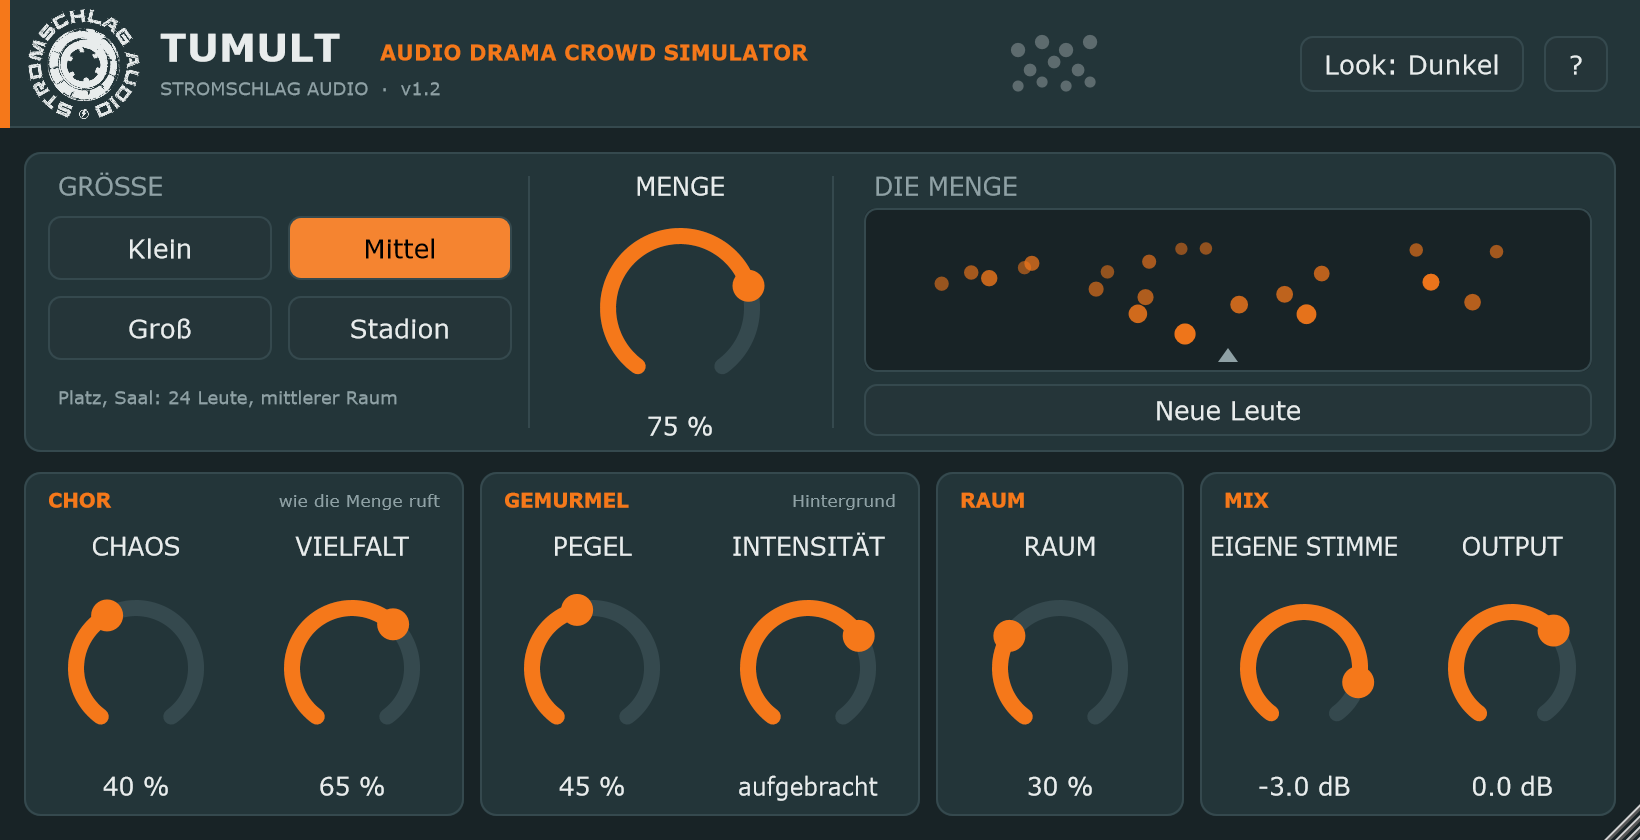
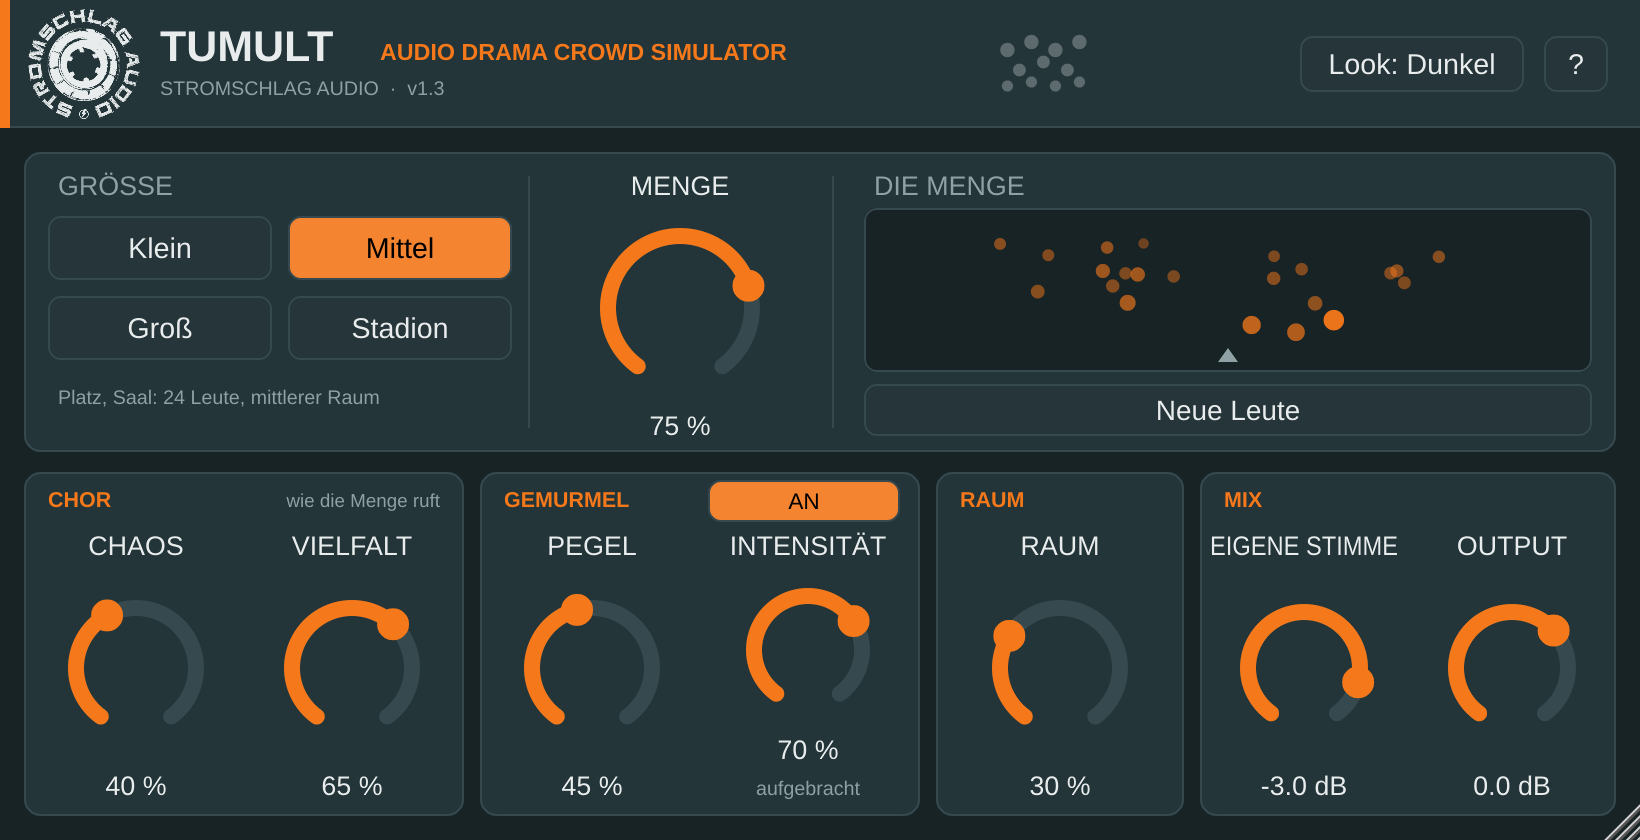
Finalize Tumult 1.3 screenshots, validation evidence and release notes

diff --git a/docs/VALIDATION-1.3.md b/docs/VALIDATION-1.3.md
@@ -1,32 +1,77 @@
-# Validierung 1.3
+# Validierung TUMULT 1.3
 
-## Umfang
+## Ergebnis und Grenzen
 
-Verbesserungen aus dem unabhängigen technischen Audit von 1.2. Alle Tests verwenden die reale Engine. Es wurden keine tatsächlichen Hörtests und keine Studio-One-Pro-8-Sitzung durchgeführt. Aussagen über Natürlichkeit sind deshalb keine bestätigten Hörergebnisse.
+Der endgültige Produktionscode wurde auf dem Arbeitszweig mit Commit `60f4518af202de913ed177fb077744bcc87f47b2` geprüft. Die abschließenden Ergänzungen betreffen Screenshots und Dokumentation.
 
-## Regressionen
+Es wurden keine tatsächlichen Hörtests und keine Studio-One-Pro-8-Sitzung durchgeführt. Natürlichkeit und Verständlichkeit in einer echten Hörspielmischung sind deshalb keine bestätigten Hörergebnisse. Der unabhängige Gemurmelbetrieb wurde mit stillen und deaktivierten Eingängen im echten JUCE-Prozessor getestet; Stop, Suspend und Export müssen in Studio One gesondert beurteilt werden.
+
+## Tatsächlich abgeschlossene Prüfungen
+
+| Prüfung | Ergebnis |
+|---|---|
+| Windows-x64-VST3-Build, Versions- und Herstellerprüfung | Erfolgreich |
+| Windows-DSP-Regressionen | Erfolgreich, 23,98 s |
+| Windows-Prozessorregressionen einschließlich Editor | Erfolgreich, 1,72 s |
+| Windows-pluginval, Strictness 8 | Vollständig beendet, Exitcode 0, abschließendes `SUCCESS`, keine Fehlerzeilen |
+| Linux-CI mit AddressSanitizer und UndefinedBehaviorSanitizer | Erfolgreich |
+| Lokaler vollständiger JUCE-/VST3-Build unter Linux | Erfolgreich |
+| Lokale Prozessorregressionen einschließlich fraktionaler Schalterwerte | Erfolgreich, 6,12 s |
+| Lokales pluginval unter Linux, Strictness 8, mit Xvfb | Vollständig beendet, Exitcode 0, abschließendes `SUCCESS` |
+| Lokaler Release-DSP-Build nach der Bypass-Ergänzung | Erfolgreich, 175,85 s in parallel ausgelasteter Cloud-Umgebung |
+| Echte JUCE-Oberflächenbilder, Dunkel und Hell | Neu erzeugt, Version 1.3, visuell geprüft; keine Bildretusche |
+
+Nachweise: [vollständiger Windows-Lauf](https://github.com/StromschlagProductions/Tumult-vst/actions/runs/44375981162), [ASan/UBSan-Lauf](https://github.com/StromschlagProductions/Tumult-vst/actions/runs/44375981344).
+
+pluginval prüft unter anderem Zustandswiederherstellung, Automation einschließlich Editor, Parameter-Threadsicherheit, Buskonfigurationen und zufällige Parameterwerte. Ein bestandener Lauf bestätigt keine subjektive Klangqualität und ersetzt keine DAW-Sitzung.
+
+## Gezielte Regressionen
 
 - Prozenttexte, Dezimalkomma, „aus“ und Intensitätsnamen.
+- Diskreter Gemurmel-Schalter bei fraktionalen Hostwerten, insbesondere 0,469368: kanonische Werte 0/1 vor und nach Recall.
 - Mono-Begrenzung bei maximalen gültigen Eigenstimmen-/Outputwerten, 44,1 und 48 kHz.
 - Stereo-Eigenstimme und exakte gemeldete Verzögerung, auch im Host-Bypass.
-- Generator auf einem deaktivierten Eingang, AN/AUS, gespeicherter Pegel und Tail-Meldung.
-- Recall vor und nach Vorbereitung; gespeicherte manuelle Besetzung; Migration alter Zustände.
+- Generatorbetrieb mit deaktiviertem Eingang, AN/AUS, erhaltener Pegel und Tail-Meldung.
+- Recall vor und nach Vorbereitung, gespeicherte manuelle Besetzung und Migration alter Zustände.
 - Stabile Positionen über automatische Phrasenwechsel.
-- Bestehende Tests für Sample-Rates, Blockteilung, Parameterautomation, ungültige Werte und Allokationen.
+- Nach zehn Sekunden Stille kein verbrauchter Tempo-Versatz; während Sprache entsteht ein begrenzter Versatz.
+- Bestehende Prüfungen für 22,05 bis 192 kHz, feste Parameter bei verschiedener Blockteilung, Automation, ungültige Werte, numerische Grenzen und C++-Allokationen im Callback.
 
-## Bewusste Grenzen
+Die Allokationsprüfungen überwachen normale C++-Allokationen über die vorhandenen Test-Hooks. Sie sind keine vollständige Instrumentierung sämtlicher Betriebssystem- und Bibliotheksoperationen.
 
-Mono verwendet den Kanal-Mittelwert vor der Begrenzung. Das kann gegenüber 1.2 etwa 3 dB weniger Pegel bedeuten und verhindert den bisherigen Summenaufschlag.
+## Messungen und Vergleichsrenderings
 
-Das Plugin vervielfacht dieselbe Darbietung. Es erzeugt keine unabhängig gesprochenen Phoneme und keine garantierten Alters-/Geschlechtsidentitäten. Die Pitch-Engine bleibt ein Delay-Verfahren. Die begrenzte Zeitvariation beeinflusst auch die Tonhöhe.
+Bei 44,1 und 48 kHz ergaben externe Messprogramme nach zehn Sekunden Stille 0 ms Tempo-Akkumulation. Nach einer Sekunde Sprache lag der maximale individuelle Versatz bei ungefähr 36,5 ms. Der Mono-Spitzenwert bei maximalen gültigen Verstärkungen blieb bei höchstens 1,0 (0 dBFS).
 
-Der Projektzustand speichert Parameter und Besetzung, keinen vollständigen Snapshot von Hallpuffern, Phrasenpositionen oder laufenden Gemurmel-Abspielköpfen. Ein neuer Lauf aus gleichem Startzustand ist reproduzierbar; beliebige Transportverläufe müssen nicht identisch klingen.
+Alle 14 echten Gemurmeldateien wurden untersucht; neun feste Intensitätsstellungen wurden jeweils 60 Sekunden gerendert. Die langfristigen Pegel bei festen Stufen bleiben gegenüber 1.2 praktisch unverändert. Die untersuchten Abschnitte hatten kleine DC-Anteile und geringe Links-Rechts-Korrelation. Das bestätigt weder die wahrgenommene Natürlichkeit noch die Unhörbarkeit wiederkehrender Einzelereignisse.
 
-Das Gemurmel besitzt 14 unveränderte 30-Sekunden-Aufnahmen (4/4/1/3/2). Zufällige Ausschnitte vermeiden einen festen Loop, schließen wiedererkennbare Einzelereignisse aber nicht aus. Es wurde kein zusätzliches Audiomaterial mit unklarer Herkunft eingebaut.
+Das vorhandene Demo-Werkzeug wurde mit seinem synthetischen Silbensignal ausgeführt. Ausgangs-RMS für Klein/Mittel/Groß/Stadion: vorher −30,9/−30,3/−30,6/−30,7 dBFS, danach −30,7/−30,8/−30,9/−30,7 dBFS. Eingangs-RMS jeweils −32,2 dBFS. Eigenstimme und Raum sind enthalten; dies ist keine isolierte LUFS-Messung echter Sprache.
 
-Eine WSOLA-/Formant- oder neuronale Alternative wurde nicht ohne echte Sprach-Hörvergleiche zum neuen Standard erklärt. Priorität hatten nachgewiesene Fehler und kontrollierte Verbesserungen innerhalb der bestehenden Bedienung.
+Ein separater Engine-Benchmark verwendete GCC 14.2, `-O2`, Xeon Platinum 8573C, 48 kHz, 512 Samples, zwölf Sekunden Dauerton, Raum 35 %, keine Eigenstimme und kein Gemurmel. Gemessen wurde Prozess-CPU-Zeit statt Wandzeit: Klein vorher 0,549 s, danach 0,640 s; Stadion vorher 2,450 s, danach 1,954 s. Die neue Besetzung unterscheidet sich vom alten Zufallsablauf. Das ist ein Szenariovergleich, keine allgemeine Beschleunigungs- oder Studio-One-Leistungszusage.
 
-## Reproduktion
+Das Offline-Demowerkzeug aktiviert auf SSE-Plattformen wie der Plugin-Callback die Denormal-Unterdrückung. Sehr kleine Hallreste hatten den externen Renderer sonst deutlich verlangsamt.
+
+## Bewusste technische Entscheidungen
+
+Personenmerkmale bleiben pro Besetzung stabil. Pro Phrase variieren Beteiligung, Einsatz und Pegelausdruck. NEUE LEUTE wählt eine neue gespeicherte Besetzung in einer ausreichend langen Eingangspause. Tempo-Versatz wächst während tatsächlich gelesener Sprache, nicht schon während Stille. Kleine Transpositionen werden nicht mehr pauschal unter einem halben Halbton auf Unisono gesetzt.
+
+Zwei vorreservierte Räume überblenden Größenwechsel über etwa 500 ms. Dabei läuft die alte Hallstruktur weiter; kurzzeitig steigen Speicherbedarf und Rechenaufwand. Filtergrößenwechsel werden ebenfalls überblendet. Der Stereoanteil der Eigenstimme bleibt in einem eigenen Verzögerungspuffer erhalten.
+
+Mono verwendet den Kanal-Mittelwert vor der Begrenzung. Gegenüber 1.2 kann das etwa 3 dB weniger Pegel bedeuten und verhindert den bisherigen Summenaufschlag. Die aktive Ausgangsstufe ist eine Schutzsättigung, kein True-Peak-Limiter. Der Bypass reicht das verzögerte Original mit weichem Übergang durch.
+
+Die Pitch-Engine bleibt ein Delay-Verfahren. Eine unabhängige Formant-, WSOLA- oder neuronale Engine wurde ohne belastbare Sprach-Hörvergleiche nicht zum neuen Standard erklärt. Alle Rufstimmen übernehmen weiterhin dieselbe Darbietung; Alter, Geschlecht und unabhängig gesprochene Phoneme werden nicht garantiert modelliert.
+
+Das Projekt speichert Parameter und Besetzung, keinen vollständigen Snapshot von Hallpuffern, Phrasenpositionen oder laufenden Gemurmel-Abspielköpfen. Ein Lauf aus gleichem Startzustand ist reproduzierbar; beliebige Transportverläufe müssen nicht identisch klingen.
+
+Das Gemurmel besitzt 14 unveränderte 30-Sekunden-Aufnahmen (4/4/1/3/2). Zufällige Ausschnitte und weiche Wechsel reduzieren feste Loops; wiedererkennbare Ereignisse bleiben möglich. Es wurde kein zusätzliches Audiomaterial eingebaut.
+
+## Korrigierte CI-Auswertung
+
+Der bisherige Windows-Workflow wartete das als GUI-Anwendung gestartete pluginval nicht zuverlässig vollständig ab. Eine grüne Workflow-Anzeige allein war deshalb kein ausreichender Validierungsnachweis. So wurde auch der Recall-Fehler des neuen Bool-Schalters erst im vollständigen Protokoll sichtbar.
+
+Der korrigierte Workflow wartet den Prozess explizit ab, verlangt Exitcode 0 und die abschließende SUCCESS-Meldung und weist Fehlerzeilen zurück. Die Protokolle werden als Artefakt gesichert. Der Schalter liefert nach außen passend zum diskreten Projektzustand kanonische Werte 0/1.
+
+## Reproduktion und Veröffentlichung
 
 ```sh
 cmake -S . -B build/dsp -DAUDIO_DSP_ONLY=ON -DCMAKE_BUILD_TYPE=Release
@@ -34,26 +79,4 @@ cmake --build build/dsp --parallel 2
 ctest --test-dir build/dsp --output-on-failure
 ```
 
-Vollständige Prozessor-, Editor- und VST3-Prüfung: Windows-Workflow `build.yml`; pluginval Strictness 8. Release nur nach erfolgreicher Prüfung und ausdrücklicher Freigabe über den bestehenden manuellen Workflow.
-
-## Ausgeführte Prüfungen
-
-- Lokale vollständige JUCE-Prozessortests einschließlich Editor-Erzeugung, Generator, State und Bypass: erfolgreich, CTest 1/1 (6,43 s).
-- Lokaler Release-DSP-Build: erfolgreich, CTest 1/1 nach der Bypass-Ergänzung (175,85 s in einer parallel ausgelasteten Cloud-Umgebung).
-- Linux-CI mit ASan/UBSan auf `7549245` einschließlich Bypass-Regression: erfolgreich.
-- Erster vollständiger Windows-Lauf auf `7b74e29`: Build, DSP-/Prozessortests erfolgreich; die damalige pluginval-Ausführung war nicht vollständig abgewartet und zählt nicht als bestandene Validierung. Der endgültige Stand `7549245` einschließlich Bypass und Generator-Kategorie besteht Build und Regressionstests; sein pluginval-Protokoll zeigte jedoch einen Recall-Fehler bei fraktionalen Bool-Werten und wurde vom alten Workflow nicht zuverlässig ausgewertet: [Prüflauf](https://github.com/StromschlagProductions/Tumult-vst/actions/runs/44373300308).
-- Externe Engine-Messung bei 44,1 und 48 kHz: nach zehn Sekunden Stille 0 ms Tempo-Akkumulation, nach einer Sekunde Sprache ungefähr 36,5 ms maximaler individueller Versatz. Mono-Spitze bei maximalen gültigen Verstärkungen höchstens 1,0 (0 dBFS).
-- 14 echte Gemurmeldateien untersucht; neun feste Intensitätsstellungen jeweils 60 Sekunden gerendert. Bei festen Stufen bleiben die langfristigen Pegel gegenüber 1.2 praktisch unverändert; kleine DC-Anteile und geringe Links-Rechts-Korrelation. Keine Bestätigung der wahrgenommenen Natürlichkeit oder Unhörbarkeit wiederkehrender Ereignisse.
-- Das vorhandene Demo-Werkzeug wurde vor/nach der Änderung mit seinem synthetischen Silbensignal ausgeführt. Ausgangs-RMS für Klein/Mittel/Groß/Stadion: vorher −30,9/−30,3/−30,6/−30,7 dBFS, danach −30,7/−30,8/−30,9/−30,7 dBFS. Eingangs-RMS jeweils −32,2 dBFS. Eigenstimme und Raum sind enthalten; keine isolierte LUFS-Messung echter Sprache.
-
-### Rechenaufwand
-
-Ein separater direkter Engine-Benchmark mit GCC 14.2, `-O2`, Xeon Platinum 8573C, 48 kHz, 512 Samples, zwölf Sekunden Dauerton, Raum 35 %, ohne Eigenstimme und Gemurmel verwendete Prozess-CPU-Zeit statt Wandzeit. Klein: vorher 0,549 s, danach 0,640 s; Stadion: vorher 2,450 s, danach 1,954 s. Die neue stabile Besetzung unterscheidet sich vom alten Zufallsablauf. Das ist ein Szenariovergleich, keine allgemeine Beschleunigungs- oder Studio-One-Leistungszusage.
-
-Das Offline-Demowerkzeug aktiviert auf SSE-Plattformen dieselbe Denormal-Unterdrückung wie der Plugin-Callback. Sehr kleine Hallreste hatten den externen Renderer sonst deutlich verlangsamt.
-
-## Expliziter Release-Auftrag per Commit
-
-Neben dem manuellen Workflow kann ein ausdrücklich freigegebener Push auf `main` mit der ersten Commitzeile `release: Tumult <VERSION> <Beschreibung>` die Veröffentlichung beauftragen. Die Nummer muss exakt zur Datei `VERSION` passen. Normale Pushes veröffentlichen weiterhin nichts. Der Release-Auftrag durchläuft dieselben Versions-, Screenshot-, Build-, Regressionstest- und pluginval-Prüfungen wie der manuelle publish-Lauf. Diese Alternative ermöglicht eine vom Auftraggeber autorisierte Veröffentlichung über den GitHub-Connector ohne zusätzliche Browseranmeldung.
-
-Die Abschlusskorrektur liefert für den diskreten Gemurmel-Schalter kanonische Hostwerte 0/1. Der Windows-Workflow wartet pluginval explizit ab, verlangt Exitcode 0 und die abschließende SUCCESS-Meldung und weist Fehlerzeilen zurück. Protokolle werden als Artefakt gesichert.
+Der vollständige Windows-Workflow baut und testet VST3 und führt pluginval Strictness 8 aus. Ein Release erfordert weiterhin eine ausdrückliche Freigabe: manueller `publish`-Haken oder ein versionsgebundener Commit `release: Tumult <VERSION> <Beschreibung>` auf `main`. Normale Pushes veröffentlichen nichts. Für beide Freigabewege gelten dieselben Build-, Versions-, Screenshot-, Regressionstest- und pluginval-Prüfungen.

diff --git a/docs/releases/1.3.md b/docs/releases/1.3.md
@@ -9,6 +9,7 @@
 - **Stimmvariation:** Kleine Transpositionen werden nicht mehr pauschal unter einem halben Halbton auf Unisono gesetzt. Langsame Zufallsbewegungen sind zeitlich auf die Sample-Rate abgestimmt.
 - **Übergänge:** Größenwechsel überblenden Filter und zwei vorreservierte Räume. Die alte Hallfahne wird nicht am Umschaltpunkt gelöscht. Intensitätsübergänge des Gemurmels werden in ihrer Leistung normalisiert.
 - **Kompatibilität:** Bestehende Parameterkennungen, Plugin-Kennung und die ersten acht Presets bleiben erhalten. Alte Projekte übernehmen den Gemurmel-Schalter entsprechend ihrem bisherigen Pegel. Die tatsächliche Klangberechnung wurde verbessert und ist nicht bit-identisch zu 1.2.
+- **Verlässliche Validierung:** Der Windows-Workflow wartet pluginval vollständig ab und verlangt dessen abschließende Erfolgsmeldung; fraktionale Hostwerte des Gemurmel-Schalters bleiben bei Recall konsistent.
 - **Oberfläche:** Stromschlag-Gestaltung bleibt erhalten; Größen bis 300 % werden korrekt wiederhergestellt. „Ausgangslage“ bildet den frischen Plugin-Zustand als zusätzliches Preset ab.
 
 Die eingebetteten Aufnahmen wurden nicht verändert. Eine neue Formant-, WSOLA- oder KI-Engine wurde nicht ohne belastbaren Klangvergleich eingeführt. Prüfungen und bekannte Grenzen stehen in [Validierung 1.3](../VALIDATION-1.3.md).

diff --git a/README.md b/README.md
@@ -97,7 +97,7 @@ Beim Umschalten gleiten die Stimmenpegel und Filter; zwei vorreservierte Räume 
 | | OUTPUT | Gesamtpegel vor der Schutzsättigung am Ausgang; hohe Werte können den Klang verdichten |
 
 **Presets** (erscheinen in der Preset-Liste des Hosts, setzen nur die Regler): Kneipe, Kleine Demo, Protestzug, Marktplatz,
-Großdemo auf dem Platz, Sporthalle, Stadion-Chor, Stadion-Jubel und Ausgangslage. Die acht Szenen-Presets schalten auch das Gemurmel passend ein; Ausgangslage startet mit ausgeschaltetem Bett.
+Großdemo auf dem Platz, Sporthalle, Stadion-Chor, Stadion-Jubel und Ausgangslage. Die acht Szenen-Presets schalten auch das Gemurmel passend ein; Ausgangslage startet mit ausgeschaltetem Bett. Presets verändern OUTPUT nicht, damit dein eingestellter Gesamtpegel erhalten bleibt.
 
 ## Anwendung
 
